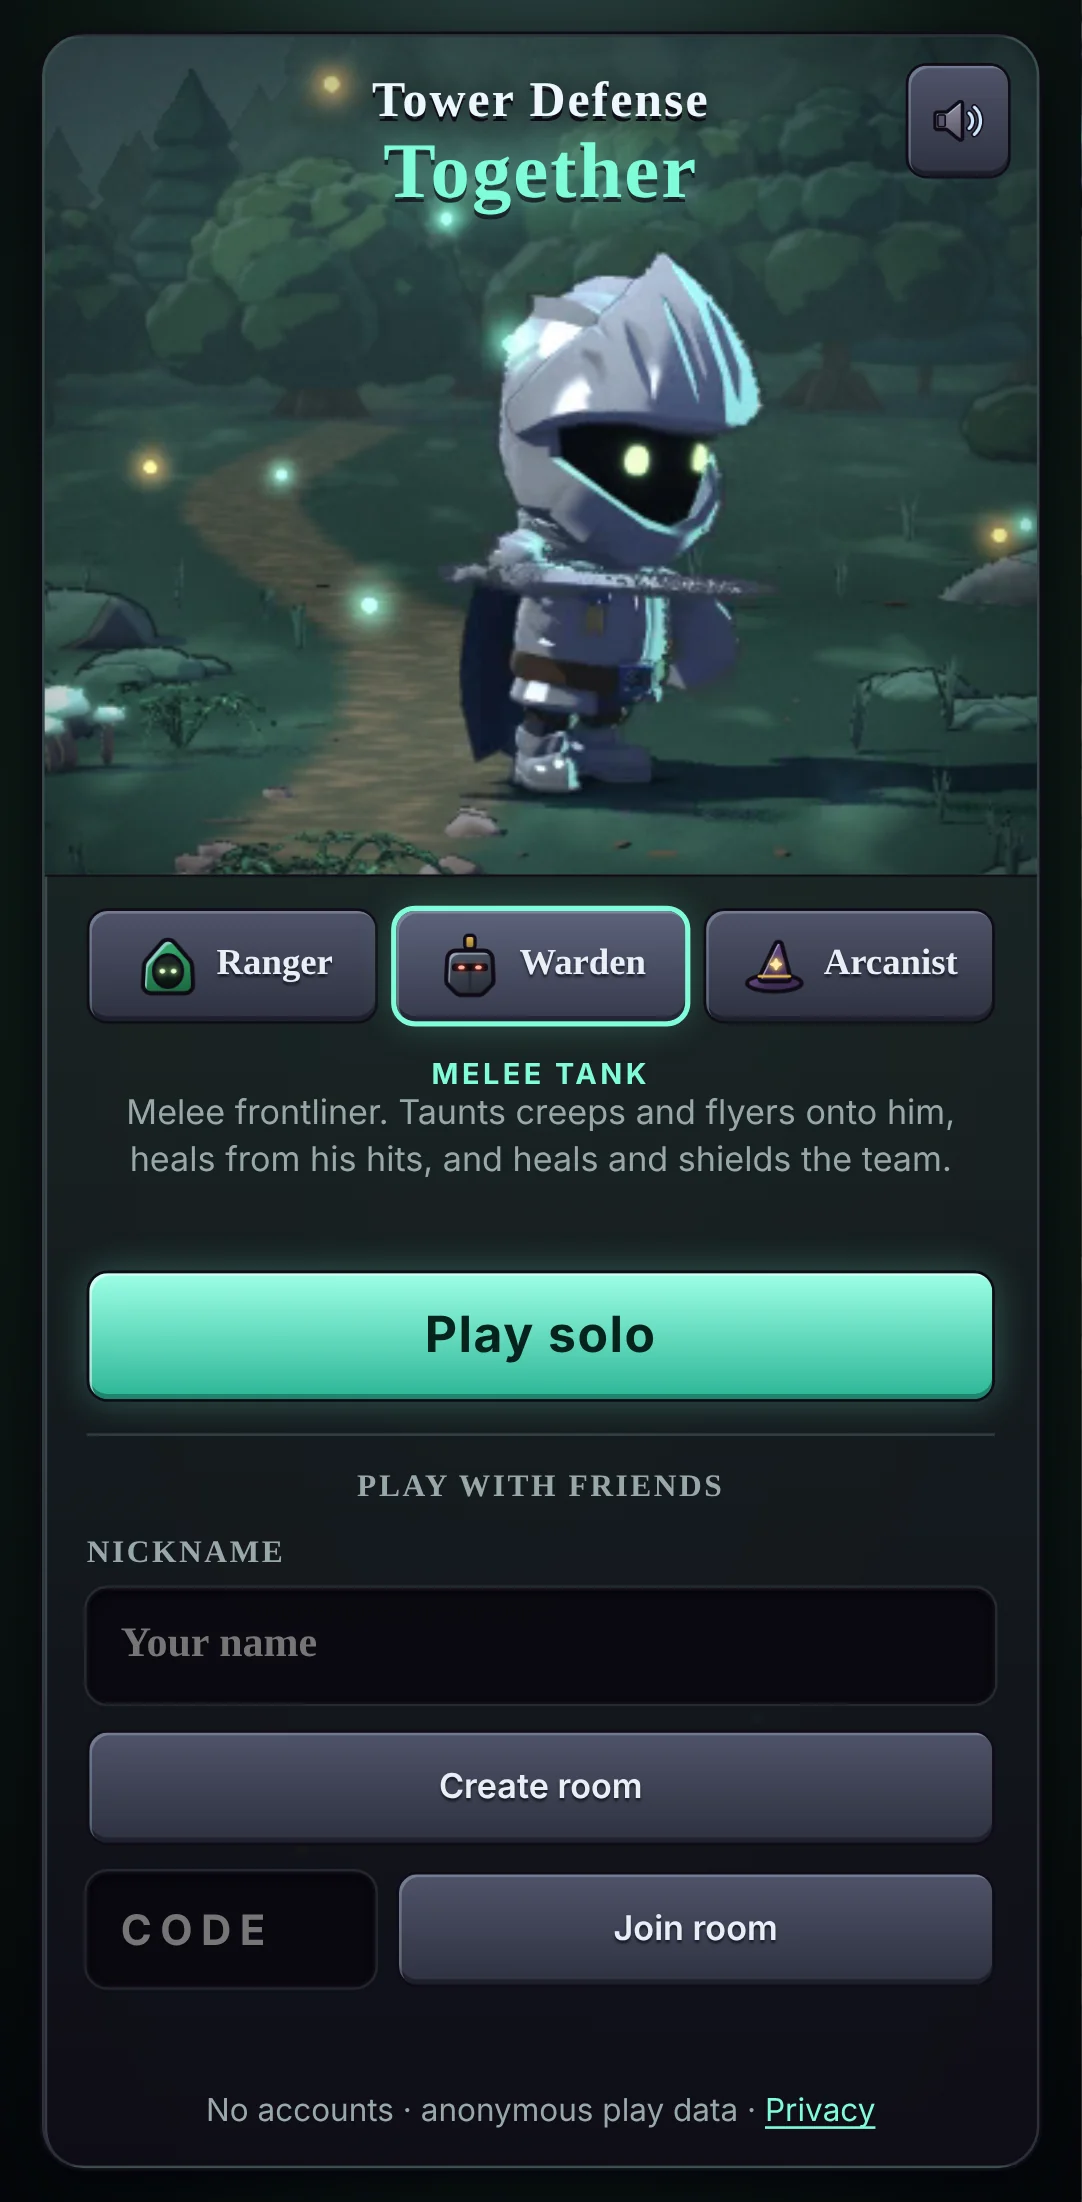
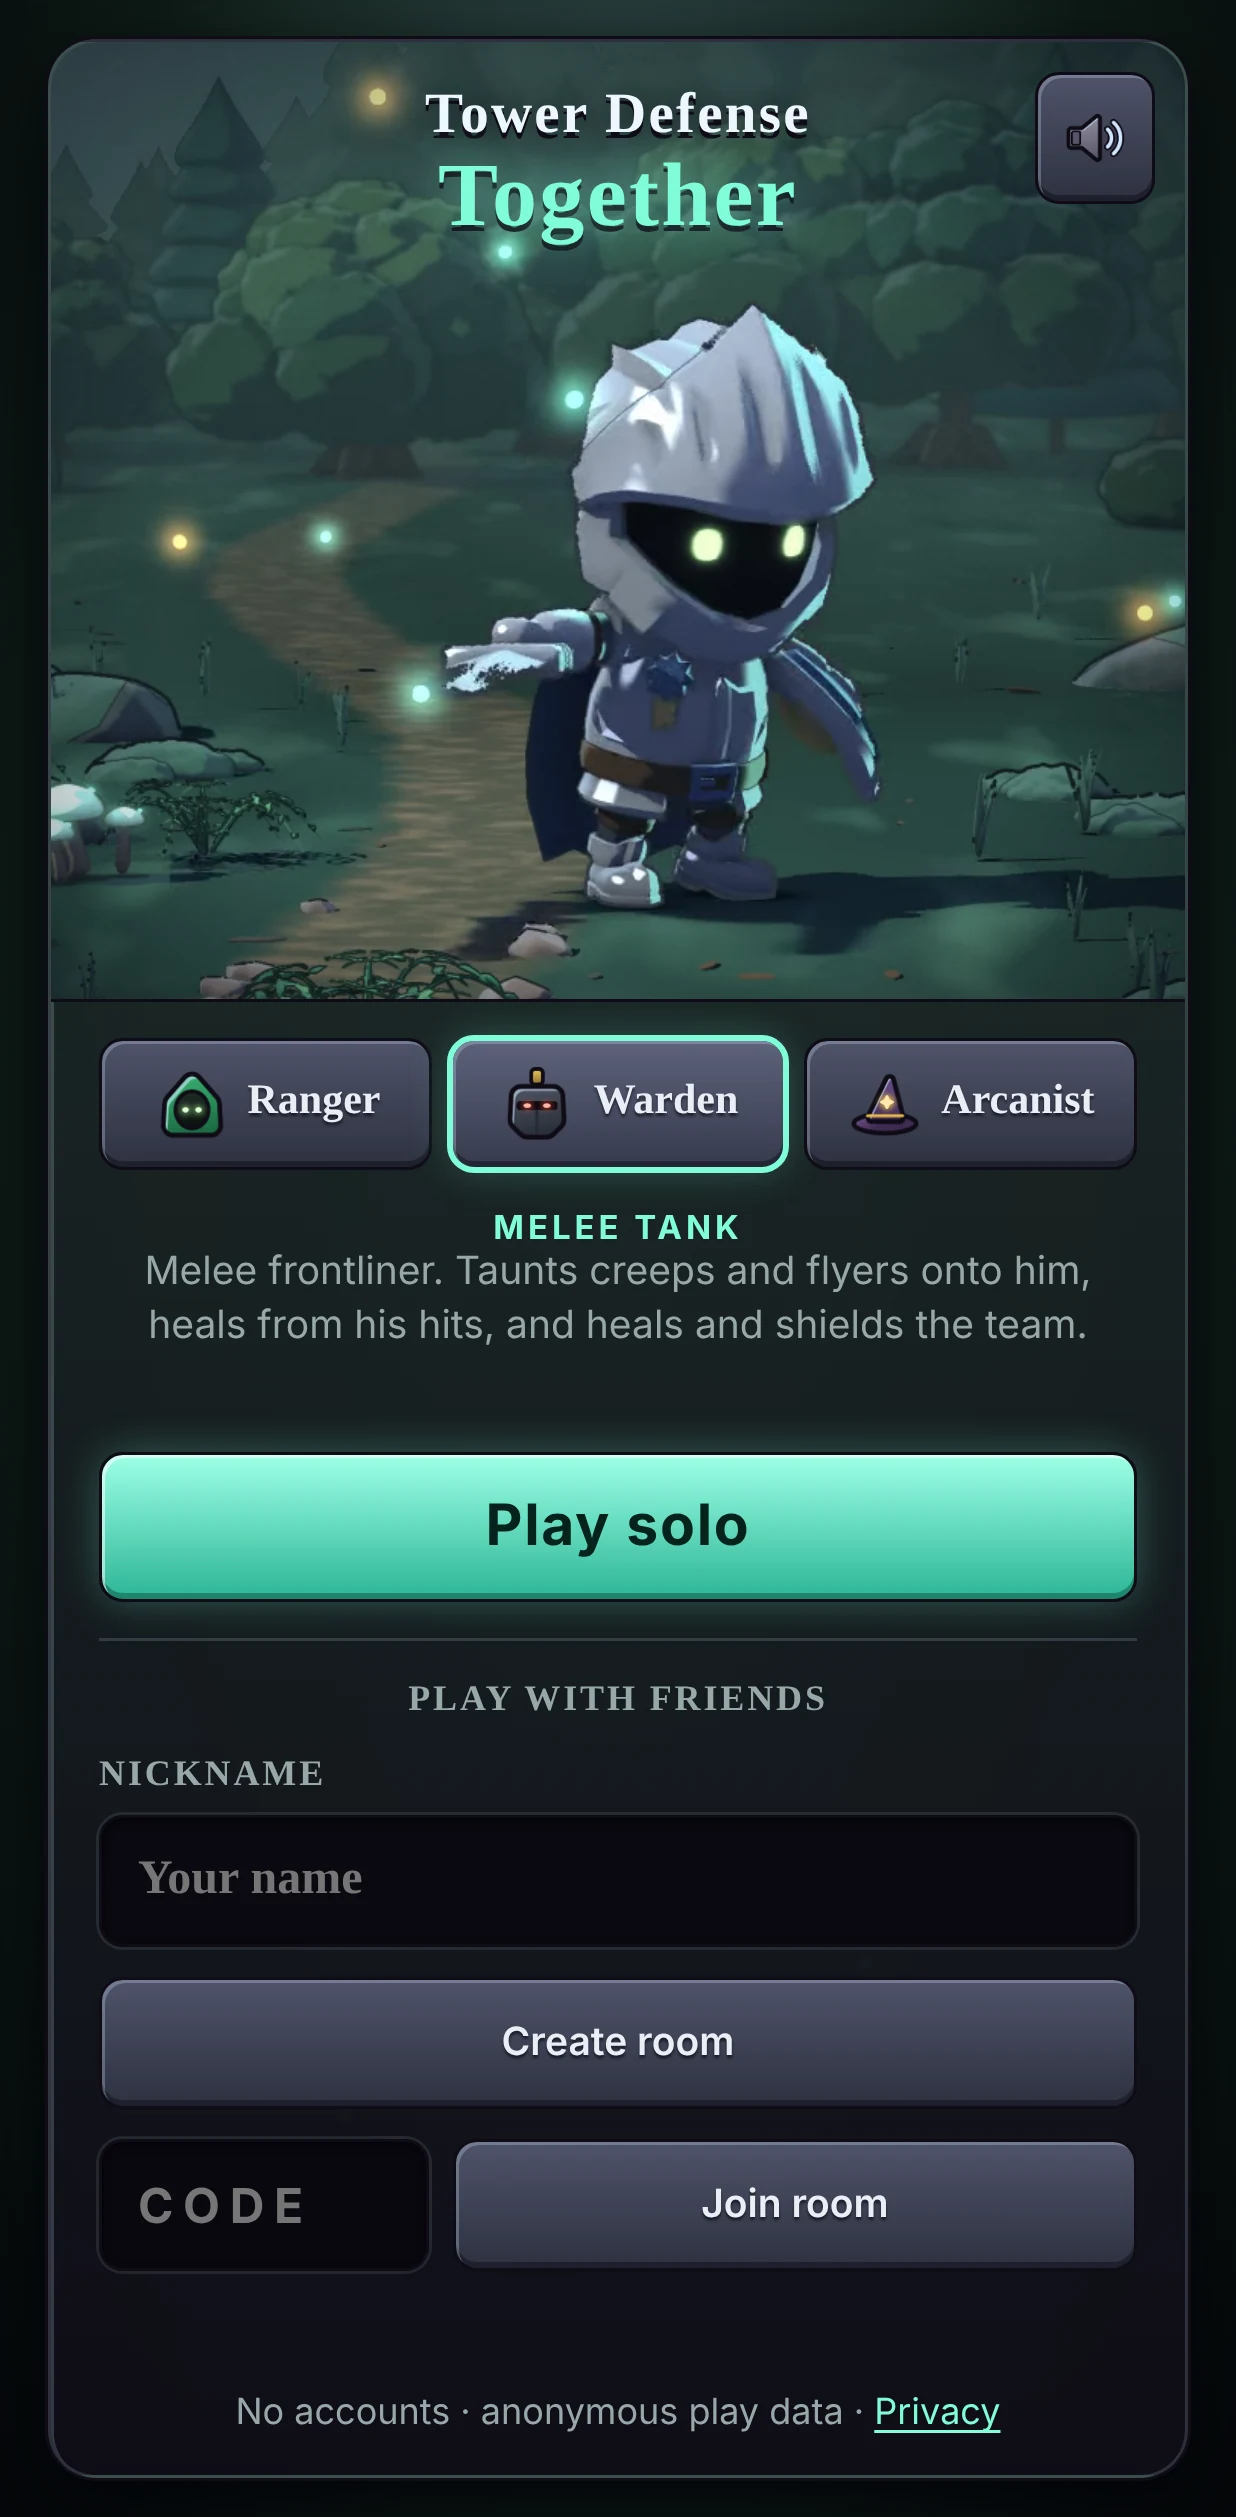
WIP V-05b round 2: each hero's stage at 412 x 839
Claude-Session: https://claude.ai/code/session_01G8STQZwtmmEEQ1TGgAX8jn

diff --git a/docs/screenshots/3d-heroes/README.md b/docs/screenshots/3d-heroes/README.md
@@ -2,7 +2,7 @@
 
 **V-05b round 2 (PR #109, 17 Oct 2026): a sharp stage, 2400 × 900.**
 
-- `stage-<hero>-412x839.webp`: each hero's stage on the home card of a 412 × 839 phone at 3×, paused in his signature move (the browser tests' Chromium plays the VP9 WebM; phones with H.264 play the MP4 of the same frames).
+- `stage-<hero>-412x839.webp`: each hero's stage on the home card of a 412 × 839 phone at 3×, paused in his signature move (the Ranger at full draw, the Warden mid-slice, the Arcanist's gem raised as the summon begins) (the browser tests' Chromium plays the VP9 WebM; phones with H.264 play the MP4 of the same frames).
 - `ranger-hood-eyes-300.webp`: `python tools/blender/edges.py`. The Ranger's hood top, hood edge and eyes in stage frame 0, decoded from each shipped MP4 and scaled as that stage is on a 3× screen, then enlarged 3× pixel for pixel: V-05b's first round (1200 × 450), round 2 (2400 × 900) and V-05a's Ranger (#106, 2400 × 900).
 - `warden-slice-1x-2x.webp`, `ranger-string-1x-2x.webp`: why some stage frames are rendered at 2× (docs/ART.md §15). The Warden's slice (stage frame 127, a fast frame) and the Ranger's string in the follow-through (frame 196, which failed the fringe check at 1×), each rendered at 1× (24 samples) and at 2× (shipped), scaled as a 3× phone shows the stage and enlarged 3×: at 1× the motion-blurred blade breaks into specks and the string's light core into light dots.
 
@@ -12,7 +12,7 @@
 - `match-3heroes-412x839.webp`, `match-3heroes-zoom.webp`: a three-player match on a 412 × 839 phone (Han as the Ranger, bots as the Warden and the Arcanist), and the three heroes cropped from it.
 - `arcanist-idle-match-zoom.webp`: the Arcanist standing idle in a solo match, 3× pixel for pixel.
 - `arcanist-stage-gem-in-moss.webp`: the Arcanist's stage idle (frame 0), and the summon's start (frame 94), where his staff's gem reaches the moss below his feet and sets the shared box's bottom (`stage.BOX` y 400).
-- `heroes-contact-sheet.png`: `python tools/blender/contact.py`. The stage's key moments, then the match poses at full size, at phone size and 50 px tall.
+- `heroes-contact-sheet.png`: `python tools/blender/contact.py`. The stage's key moments (from V-05b's 1200 × 450 loops), then the match poses at full size, at phone size and 50 px tall (unchanged in round 2).
 - `greyscale.webp`: one stage frame per hero in greyscale (the value check).
 - `ranger-0151-fringe.webp`: the Ranger's stage frame 151.
   - Yellow: the flying arrow's box, left out of the fringe check.
